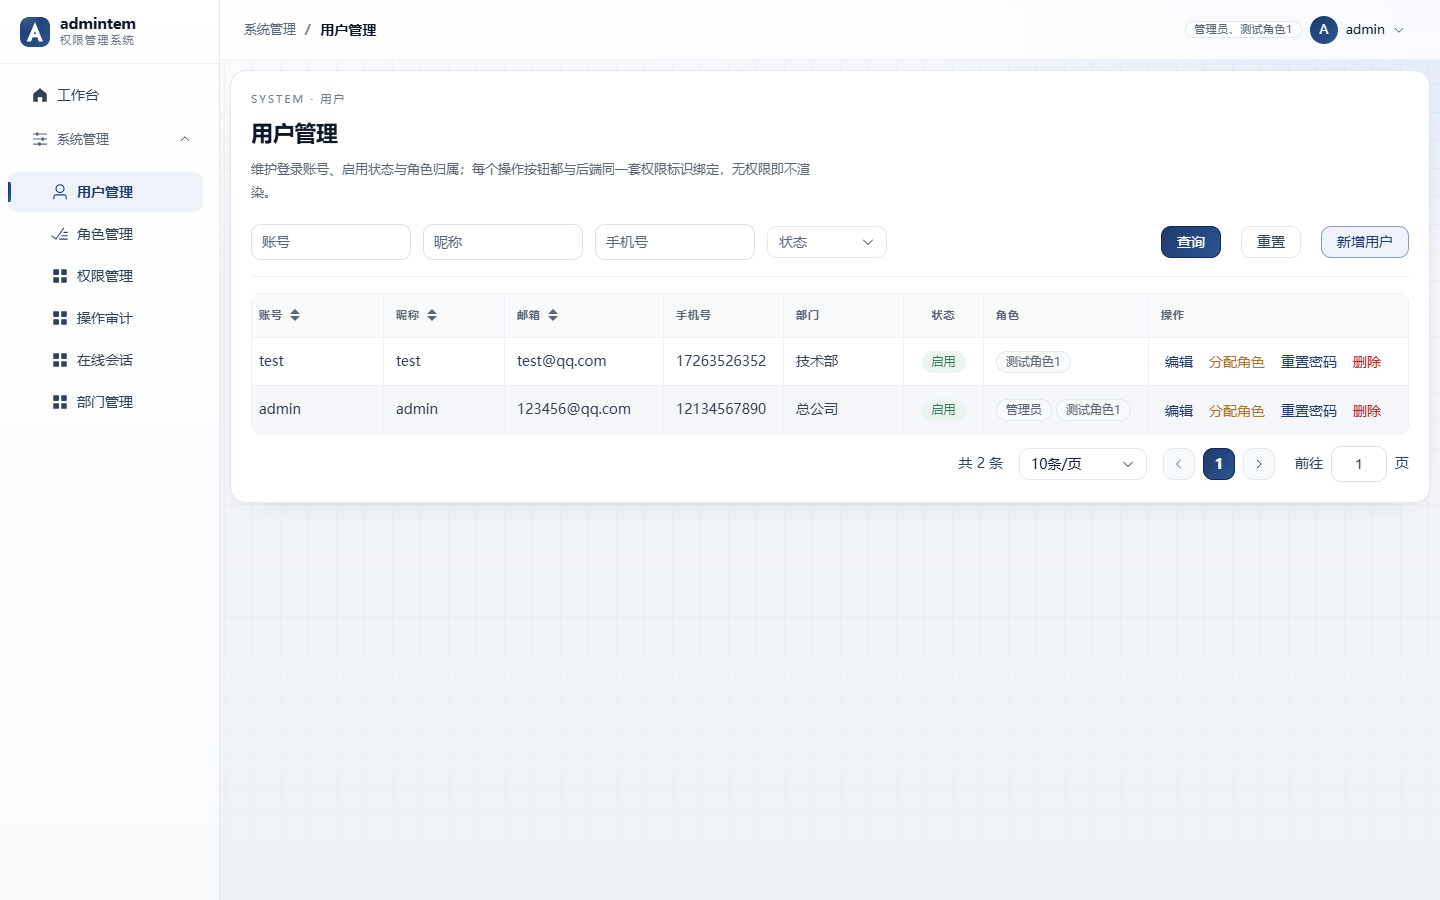
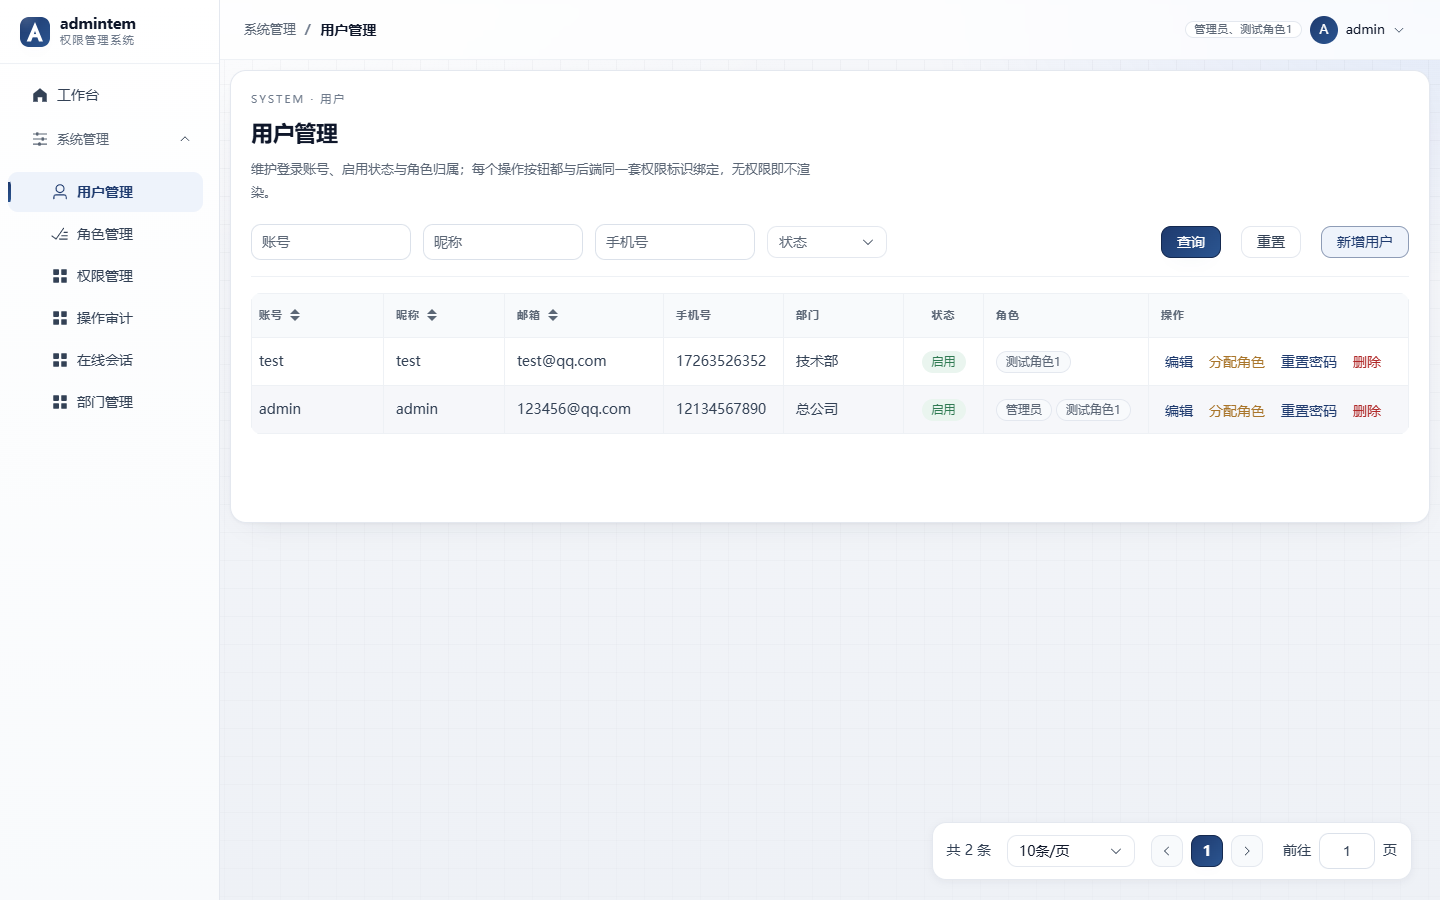
style(list)：分页条固定到页面右下角，滚动列表时始终可翻页
- PaginationBar 改为 position: fixed（right 28 / bottom 20），
  加边框、圆角与浮层阴影，作为独立的右下角分页卡
- Teleport 到 body：页面容器有入场 transform，否则 fixed 会相对容器定位
- 组件尾部加 68px spacer，避免最后一行被浮层遮住
- 窄屏（≤900px）贴边显示并允许横向滚动
- 语义：role=navigation + aria-label=分页

验证：lint/build、桌面 E2E 21、a11y 123 全通过；截图重采

diff --git a/admintem-vue/src/components/PaginationBar.vue b/admintem-vue/src/components/PaginationBar.vue
@@ -1,6 +1,8 @@
 <template>
-  <!-- 公共分页条：封装 el-pagination，统一页码/每页条数与变更事件 -->
-  <div class="pagination-bar">
+  <!-- 固定分页条：贴在视口右下角，列表滚动时始终可见。
+       Teleport 到 body：页面容器有入场 transform，会让 fixed 相对容器定位。 -->
+  <Teleport to="body">
+    <div class="pagination-bar" role="navigation" aria-label="分页">
     <el-pagination
       v-model:current-page="innerPage"
       v-model:page-size="innerSize"
@@ -9,13 +11,19 @@
       layout="total, sizes, prev, pager, next, jumper"
       background
       @change="handleChange"
-    />
-  </div>
+      />
+    </div>
+  </Teleport>
+  <!-- 占位：避免最后一行数据被浮动分页条遮住 -->
+  <div class="pagination-spacer" aria-hidden="true" />
 </template>
 
 <script setup>
 /**
  * 公共分页条组件
+ *
+ * 固定在页面右下角（position: fixed），列表滚动时不用回到页底翻页；
+ * 组件末尾的 spacer 预留高度，避免遮挡表格最后一行。
  *
  * 用法：
  *   <PaginationBar :total="total" :page="query.pageNum" :size="query.pageSize"
@@ -65,8 +73,31 @@ function handleChange(page, size) {
 
 <style scoped>
 .pagination-bar {
+  position: fixed;
+  right: 28px;
+  bottom: 20px;
+  z-index: 30;
   display: flex;
   justify-content: flex-end;
-  margin-top: 12px;
+  padding: 10px 14px;
+  border: 1px solid var(--lc-line);
+  border-radius: 14px;
+  background: var(--lc-paper-card);
+  box-shadow: var(--lc-shadow-float);
+}
+
+.pagination-spacer {
+  height: 68px;
+}
+
+/* 窄屏：贴边显示，允许横向滚动，避免把分页挤出视口 */
+@media (max-width: 900px) {
+  .pagination-bar {
+    left: 12px;
+    right: 12px;
+    bottom: 12px;
+    max-width: calc(100vw - 24px);
+    overflow-x: auto;
+  }
 }
 </style>
